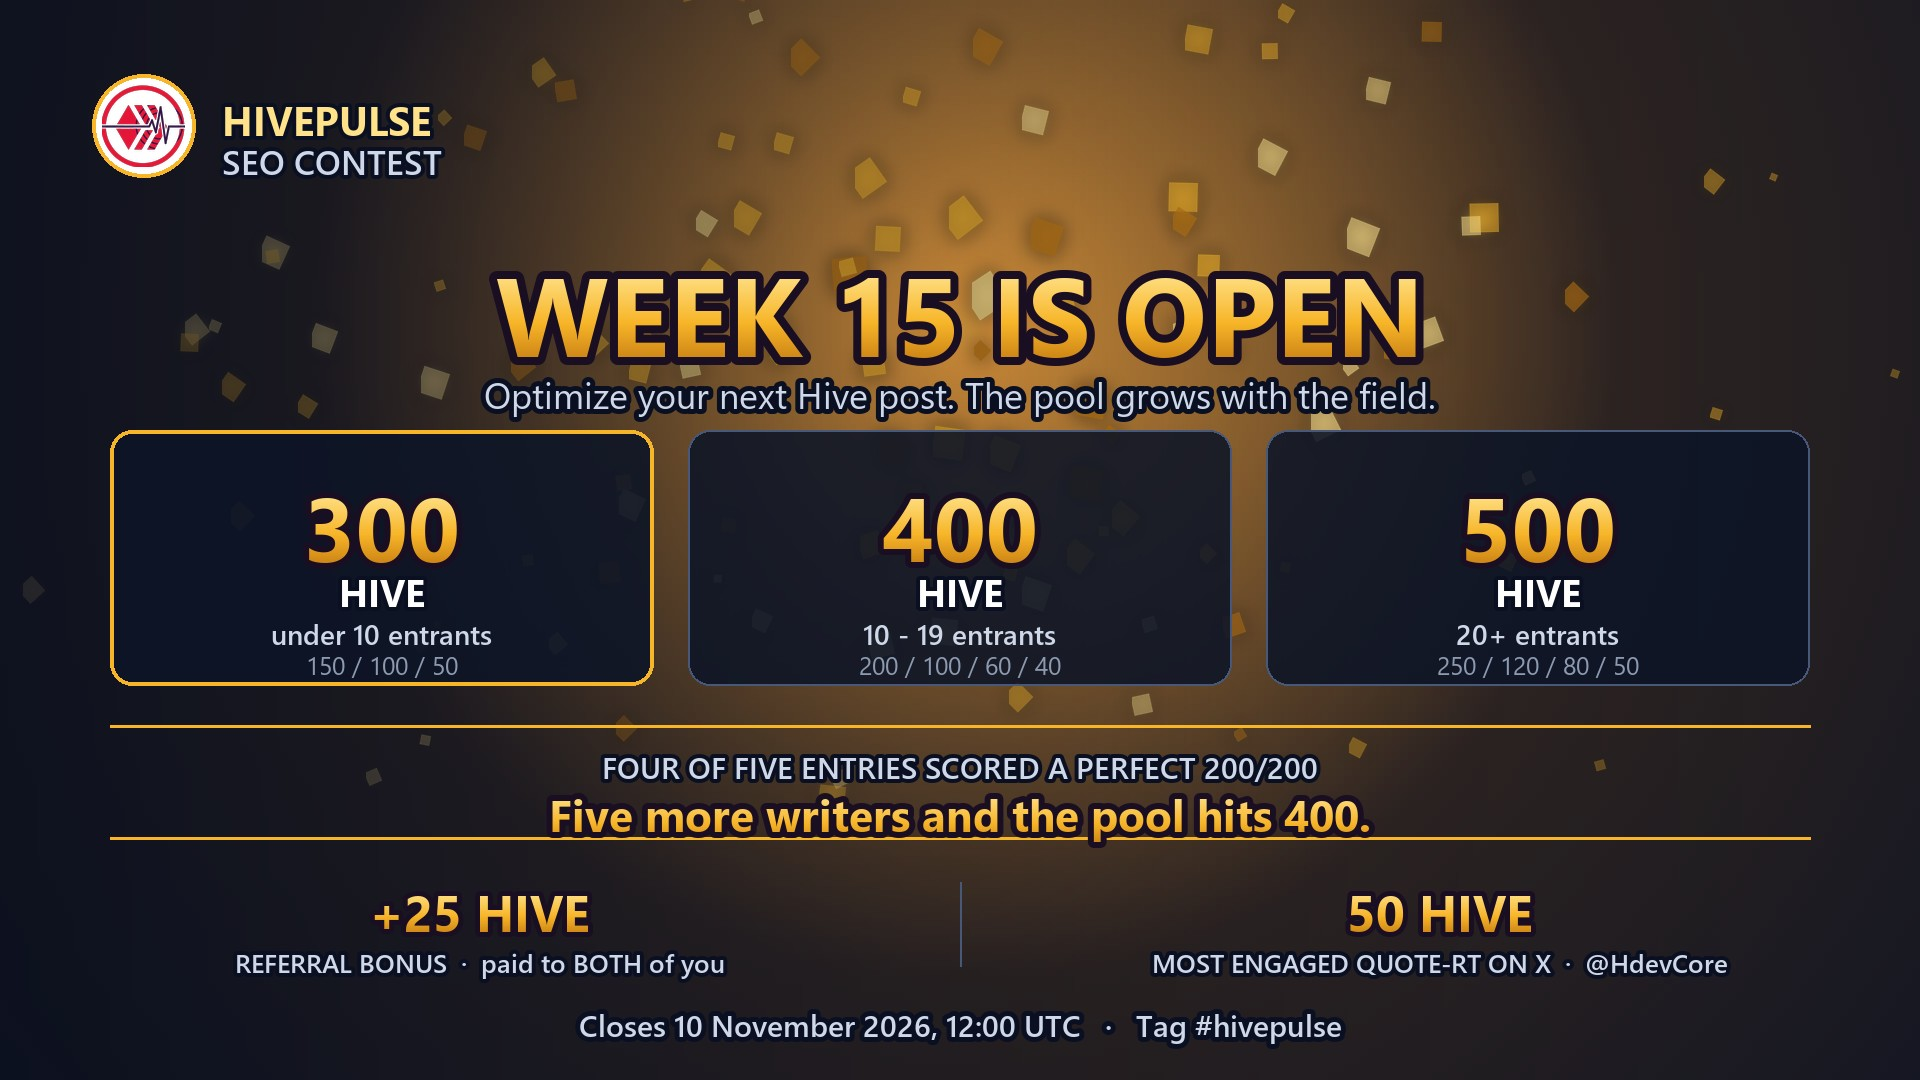
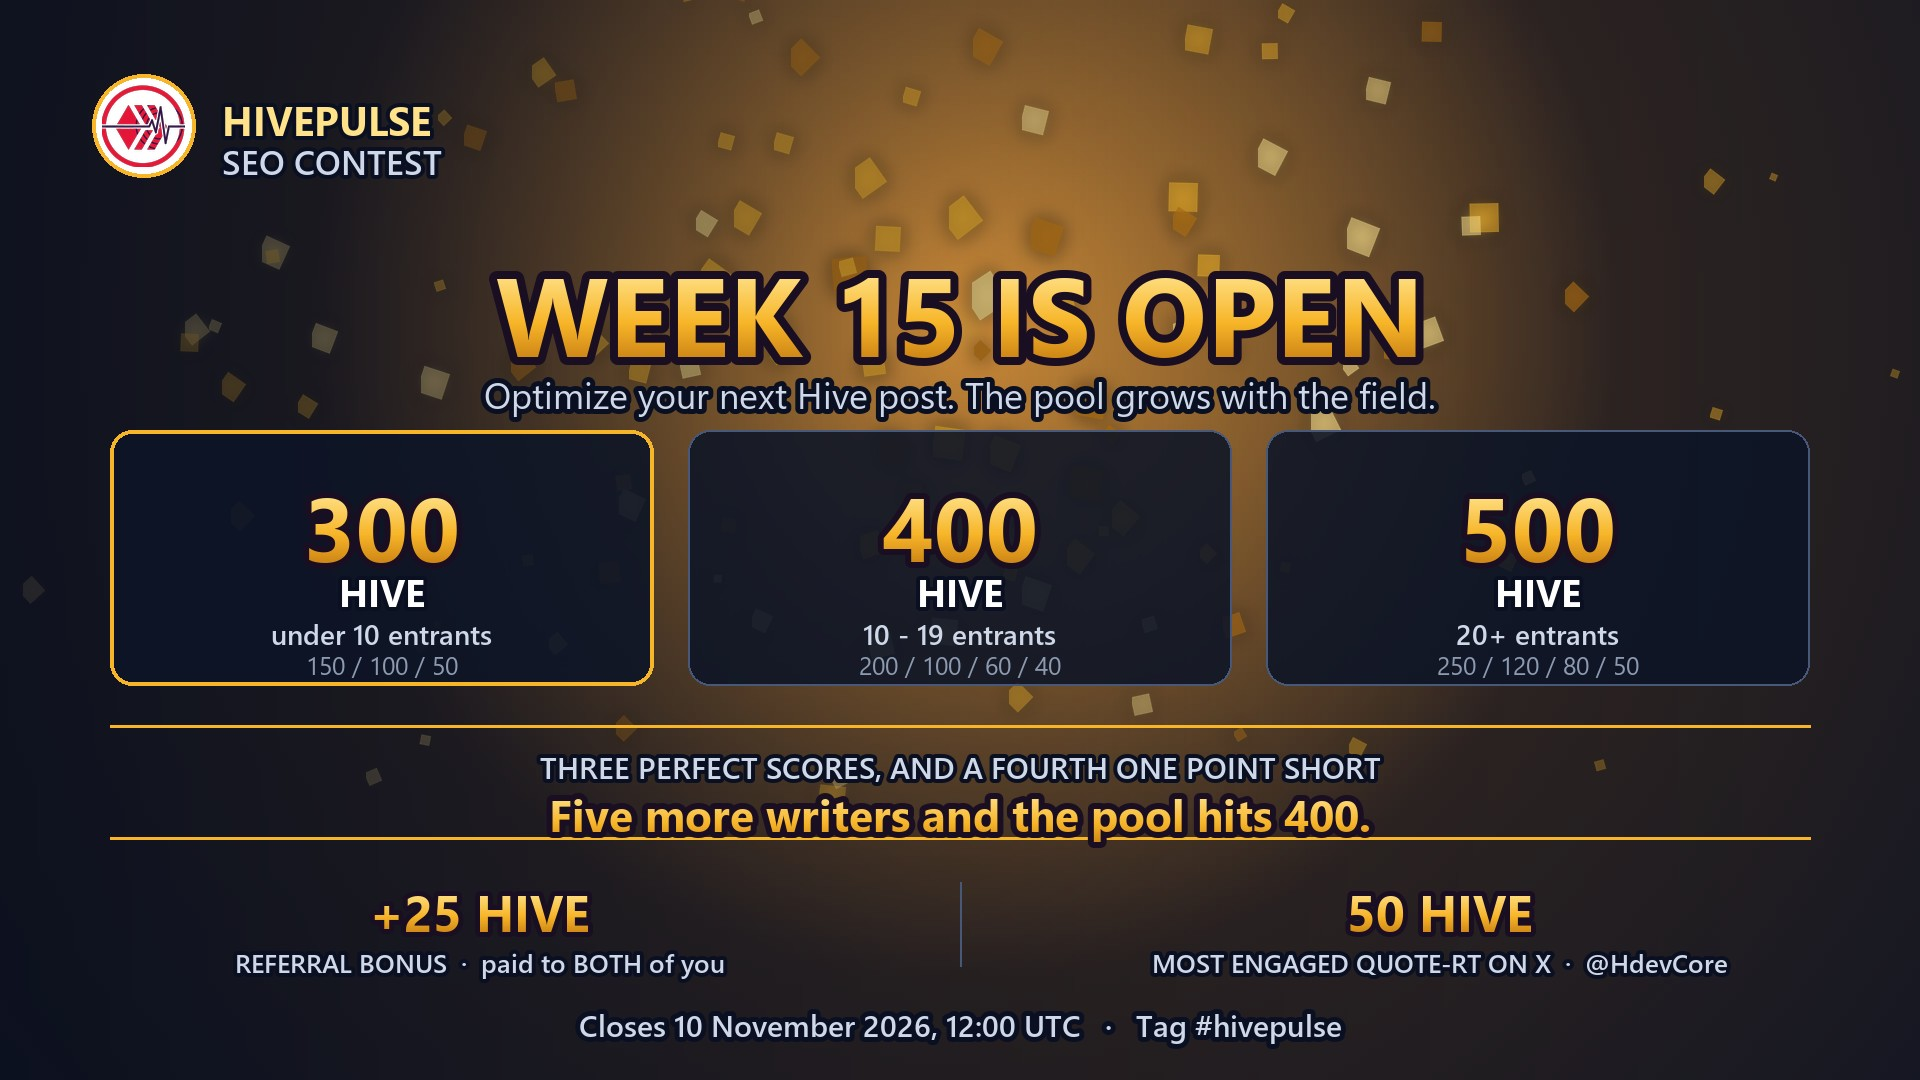
Week 14 review fixes: a wrong count, an unpublished tiebreak, a misleading table
Two independent reviews of the week 14 scoring. The podium is confirmed
unchanged - @itx.wardah, @ahmedabbaci, @nursejoe, with @nabbas0786 4th taking
only the X prize - but four real defects came out of it.

The announcement claimed "four of five finished on a perfect 200/200". Three did.
@nabbas0786 is 99+100 = 199. The error came from reading the ROUNDED combined
score, which is the very thing the same post argues is illegitimate, and it
appeared in the post three times, in the X thread, and baked into the cover
image. All corrected and the cover re-rendered.

The results table showed @nabbas0786 on "combined 100" while ranking him 4th
behind three entries also showing 100. The judge now carries combined_exact in
the CSV and prints the fractional value when there is one, so the board reads
99.5 at 4th instead of appearing to contradict itself.

byRank had a geoScore term sitting AHEAD of the published reading-ease tiebreak.
It is not in the published rule and would have settled a future round against our
own wording. Removed, with a test. It never changed a result: wherever it could
have applied, the tied entries held equal GEO.

byRank also compared `qualifies` by bare subtraction, so an undefined flag made
the term NaN and fell through, letting a disqualified entry outrank a qualifying
one. Hardened, with a test.

Also softened an unsafe claim: the draft welcomed @itx.wardah as a first-time
[…]

Changed region(s): [[0.2812, 0.6722, 0.7188, 0.7333]]

diff --git a/utils/ranking.test.ts b/utils/ranking.test.ts
@@ -32,6 +32,20 @@ describe('ranking — the published rule', () => {
       .toEqual(['b', 'a']);
   });
 
+  // A `geoScore` term used to sit ahead of reading ease in the chain. It is not in the
+  // published rule and it pre-empted the tiebreak that is.
+  it('settles a tie on reading ease, not on GEO', () => {
+    const easeWins = row('easeWins', { combinedExact: 95, geoScore: 90,  easeGap: easeGap(60) });
+    const highGeo  = row('highGeo',  { combinedExact: 95, geoScore: 100, easeGap: easeGap(70) });
+    expect(order([highGeo, easeWins])).toEqual(['easeWins', 'highGeo']);
+  });
+
+  it('does not let a malformed qualifies flag outrank a real entry', () => {
+    const good = row('good', { combinedExact: 71 });
+    const bad = { ...row('bad', { combinedExact: 100 }), qualifies: undefined as unknown as boolean };
+    expect(order([bad, good])).toEqual(['good', 'bad']);
+  });
+
   it('breaks a genuine tie on reading ease closest to 60', () => {
     const near = row('near', { easeGap: easeGap(61) });
     const far  = row('far',  { easeGap: easeGap(70) });

diff --git a/scripts/make_week15_cover.py b/scripts/make_week15_cover.py
@@ -2,9 +2,9 @@
 """Render the Week 15 HivePulse contest cover.
 
 Same furniture as week 14. The band carries this round's news: the field grew from three to
-five and four of the five finished on a perfect score. "Four perfect scores" is the social
-proof; "the pool grows with the field" is already the subtitle, so the band pushes the
-headroom - five more entrants moves the pool to 400.
+five, and three of the five finished on a perfect 200/200 with a fourth one point short. That
+is the social proof; "the pool grows with the field" is already the subtitle, so the band
+pushes the headroom - five more entrants moves the pool to 400.
 """
 
 from PIL import Image, ImageDraw
@@ -63,7 +63,7 @@ def main():
     band_y = top + box_h + 40
     for y in (band_y, band_y + 112):
         d.line([(margin, y), (W - margin, y)], fill=bs.GOLD, width=3)
-    d.text((W // 2, band_y + 20), 'FOUR OF FIVE ENTRIES SCORED A PERFECT 200/200',
+    d.text((W // 2, band_y + 20), 'THREE PERFECT SCORES, AND A FOURTH ONE POINT SHORT',
            font=bs.font('semi', 30), fill=bs.INK_2, anchor='ma',
            stroke_width=4, stroke_fill=SHADOW)
     bs.gold_text(im, (W // 2, band_y + 58), 'Five more writers and the pool hits 400.',

diff --git a/enhancements/week15-post-body.md b/enhancements/week15-post-body.md
@@ -1,10 +1,10 @@
 ![HivePulse SEO Contest Week 15 cover: 300 HIVE under 10 entrants, 400 HIVE at 10 to 19 entrants, 500 HIVE at 20 or more, plus a 25 HIVE referral bonus and a 50 HIVE prize for the most engaged quote-retweet](COVER_URL_HERE)
 
-**Summary:** Week 14 of the HivePulse SEO Contest is settled. Five writers entered, up from three, and four of them finished on a perfect score. We also found and fixed a bug in our own judge that had put third place with the wrong person. 350 HIVE is going out.
+**Summary:** Week 14 of the HivePulse SEO Contest is settled. Five writers entered, up from three, and three of them finished on a perfect score. We also found and fixed a bug in our own judge that had put third place with the wrong person. 350 HIVE is going out.
 
 ## HivePulse SEO Contest week 14 results
 
-Five writers entered, up from three last round - the biggest field since week 10. **Four of the five finished on a perfect 200/200.** Five valid entrants keeps the round in the under-10 tier, so the podium pool is 300 HIVE, plus the 50 HIVE X prize. **350 HIVE is going out.**
+Five writers entered, up from three last round - the biggest field since week 10. **Three of the five finished on a perfect 200/200**, and a fourth missed it by a single point. Five valid entrants keeps the round in the under-10 tier, so the podium pool is 300 HIVE, plus the 50 HIVE X prize. **350 HIVE is going out.**
 
 | Place | Author | Post | SEO | GEO | Ease | Published | Prize |
 |---|---|---|---:|---:|---:|---|---:|
@@ -16,7 +16,7 @@ Five writers entered, up from three last round - the biggest field since week 10
 
 The scores are re-derived from each post's on-chain content with the same HivePulse scoring engine the extension uses. All five entries cleared the three checks that usually catch people out: root posts, published inside the window, and `#hivepulse` in the real tag list.
 
-Welcome to @itx.wardah, who takes a first-round win with a perfect score.
+@itx.wardah takes the win on a perfect score and reading ease 60.
 
 ### We found a bug in our own judge, and it had the podium wrong
 
@@ -32,7 +32,7 @@ We checked every round this contest has ever run. The bug could only ever bite w
 
 ### Four perfect scores, and one that shows the rubric working
 
-Four of five entries scored a perfect 200/200. @ekads came in at SEO 98 and **GEO 88**, and that is the rubric doing its job rather than anyone writing badly - a 489-word post has less room to carry the named detail, question structure and sourced figures the GEO checks look for. Length is not the goal, but the checks need somewhere to live.
+Three of five entries scored a perfect 200/200, and @nabbas0786 was one point away on 199. @ekads came in at SEO 98 and **GEO 88**, and that is the rubric doing its job rather than anyone writing badly - a 489-word post has less room to carry the named detail, question structure and sourced figures the GEO checks look for. Length is not the goal, but the checks need somewhere to live.
 
 ### The X engagement prize
 
@@ -71,6 +71,8 @@ Five valid entries this round, up from three. **Five more people and the pool mo
 The minimum qualifying score is **SEO 70**. Any language is welcome. Every entry is re-scored on-chain after the round closes.
 
 **If two or more entries tie, the podium goes to the post whose Reading Ease is closest to 60, then to the earlier publication time.** A tie means the same score - as of this round, compared exactly, not rounded.
+
+One definition worth stating now that it decides podiums: **Reading Ease is the whole number HivePulse shows you** - the same figure the SEO readability check already scores against. The combined score is different: it is the result of a formula we publish, `(SEO% + GEO)/2`, and we compare it exactly. Displayed scores are rounded for readability; the arithmetic behind the rule is not.
 
 ### The 50 HIVE X prize
 

diff --git a/enhancements/x-plan-week15.md b/enhancements/x-plan-week15.md
@@ -25,7 +25,7 @@ Check lengths with:
 ```tweet
 Week 14 of the HivePulse SEO Contest is settled.
 
-Five writers entered, up from three. Four scored a perfect 200/200.
+Five writers entered, up from three. Three scored a perfect 200/200.
 
 And we found a bug in our own judge that had third place with the wrong person. 🧵
 ```
@@ -80,7 +80,7 @@ Closes 10 Nov, 12:00 UTC. Tag #hivepulse.
 🥇 @itx.wardah — 150 · 🥈 @ahmedabbaci — 100 · 🥉 @nursejoe — 50
 🐦 @nabbas0786 takes the 50 HIVE X prize, uncontested again. **350 HIVE going out.**
 
-**Five entrants, up from three, and four of them scored a perfect 200/200.** First win for @itx.wardah.
+**Five entrants, up from three, and three of them scored a perfect 200/200** - with a fourth one point short. @itx.wardah takes the win on reading ease 60 exactly.
 
 **We also found a bug in our own judge, and it had the podium wrong.** We were rounding the combined score before ranking, so a 99.5 looked like a 100, tied a genuine 100, and won a reading-ease tiebreak that should never have run — a lower score taking 3rd from a higher one. The rule we publish is "Rank = (SEO% + GEO)/2", and 99.5 is not a tie with 100. Fixed, and 3rd place is @nursejoe's. We re-checked all 14 rounds: it could only ever bite within half a point, which happened once before between two unpaid positions. No past payout moved.
 
